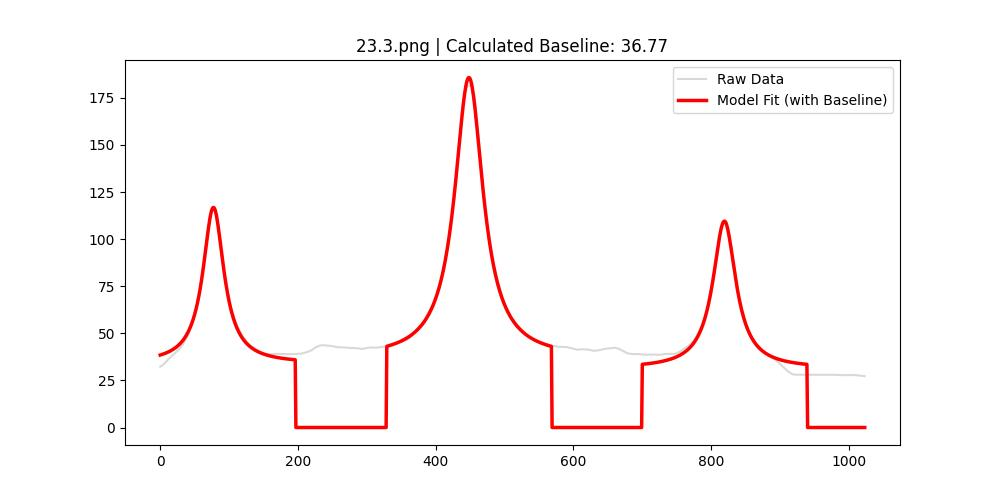
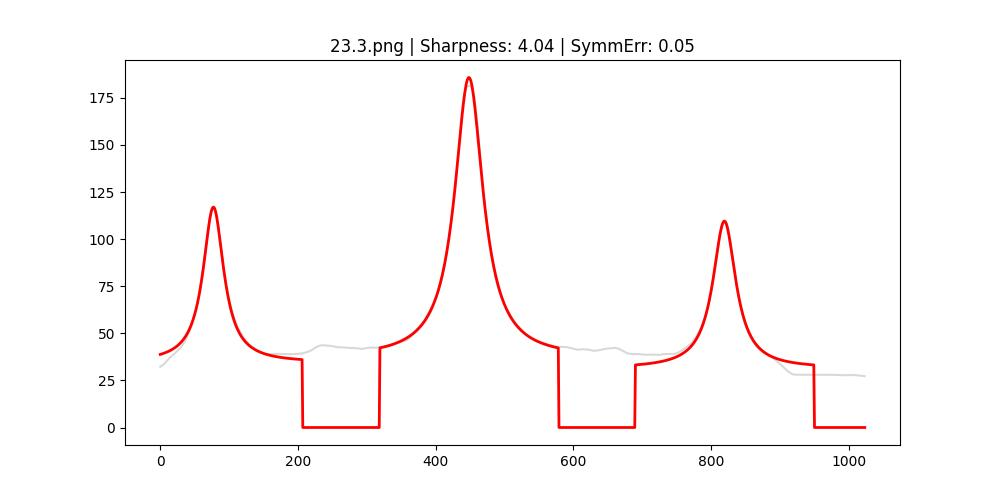
monday night 1

diff --git a/src/analysis/substrateanalyzer.py b/src/analysis/substrateanalyzer.py
@@ -6,23 +6,19 @@ import matplotlib.pyplot as plt
 from scipy.signal import find_peaks, savgol_filter
 from scipy.optimize import curve_fit
 
-# --- USER CONFIGURATION ---
-# List of image numbers (from XX.3.png) that require the Double-Lorentzian fit
+# --- CONFIGURATION ---
 DOUBLET_FILES = [11, 13, 14, 16, 17, 19, 20, 21, 25, 26, 28, 31]
-
 INPUT_DIR = "data/raw/mbesubstrate"
 OUTPUT_DIR = "data/processed/physics_analysis/substrate"
 DIAG_DIR = os.path.join(OUTPUT_DIR, "diagnostics")
 
 
-# --- MODELS WITH DYNAMIC BASELINE (y0) ---
+# --- MODELS ---
 def lorentzian(x, amp, ctr, hwhm, y0):
-    """Lorentzian that sits on a variable baseline (y0)."""
     return (amp * hwhm**2 / ((x - ctr) ** 2 + hwhm**2)) + y0
 
 
 def double_lorentzian(x, a1, c1, w1, a2, c2, w2, y0):
-    """Double Lorentzian sharing a single background baseline."""
     return lorentzian(x, a1, c1, w1, 0) + lorentzian(x, a2, c2, w2, 0) + y0
 
 
@@ -38,106 +34,86 @@ def process_substrate(path):
     except:
         file_num = -1
 
-    # Profile extraction from center band
     profile = np.mean(img[480:540, :], axis=0)
     smoothed = savgol_filter(profile, 25, 3)
 
-    # Identify the three main streaks
-    peaks, _ = find_peaks(smoothed, prominence=8, distance=150)
+    # Hardened Peak Finding (Low prominence for clipped peaks)
+    peaks, _ = find_peaks(smoothed, prominence=5, distance=120)
     if len(peaks) < 3:
-        peaks = np.argsort(smoothed)[-3:]
+        sorted_indices = np.argsort(smoothed)[::-1]
+        fallback = []
+        for idx in sorted_indices:
+            if all(abs(idx - p) > 100 for p in fallback):
+                fallback.append(idx)
+            if len(fallback) == 3:
+                break
+        peaks = np.array(fallback)
 
     best_peaks = sorted(peaks[np.argsort(smoothed[peaks])[-3:]])
     center_idx = np.argmin(np.abs(np.array(best_peaks) - 512))
+    peak_positions = []
 
     x = np.arange(1024)
     visual_fit = np.zeros(1024)
-    # Added 'baseline' to the results dictionary to track it per image
+
+    # Initialize result container
     res = {
         "filename": filename,
         "fwhm_L": 0.0,
         "fwhm_C": 0.0,
         "fwhm_R": 0.0,
         "baseline": 0.0,
+        "sharpness": 0.0,
+        "symmetry_error": 0.0,
     }
 
     for i, p_loc in enumerate(best_peaks):
-        win = 120
+        win = 130
         idx = np.arange(max(0, p_loc - win), min(1024, p_loc + win))
-        x_loc = x[idx]
-        y_loc = smoothed[idx]
-
-        # Identify the floor guess for this specific image
+        x_loc, y_loc = x[idx], smoothed[idx]
         floor_guess = np.min(y_loc)
 
         try:
             if i == center_idx and file_num in DOUBLET_FILES:
-                # --- OFFSET DOUBLET FIT ---
+                # --- DOUBLET LOGIC ---
                 amp_seed = np.max(y_loc) - floor_guess
                 p0 = [amp_seed, p_loc - 12, 15, amp_seed, p_loc + 12, 15, floor_guess]
-
-                # Bounds allow the baseline to find its true level
-                lower_b = [
-                    amp_seed * 0.5,
-                    p_loc - 40,
-                    5,
-                    amp_seed * 0.5,
-                    p_loc + 2,
-                    5,
-                    0,
-                ]
-                upper_b = [
-                    amp_seed * 3.0,
-                    p_loc - 2,
-                    65,
-                    amp_seed * 2.5,
-                    p_loc + 40,
-                    65,
-                    floor_guess + 50,
-                ]
-
-                popt, _ = curve_fit(
-                    double_lorentzian,
-                    x_loc,
-                    y_loc,
-                    p0=p0,
-                    bounds=(lower_b, upper_b),
-                    maxfev=5000,
-                )
+                popt, _ = curve_fit(double_lorentzian, x_loc, y_loc, p0=p0, maxfev=5000)
                 visual_fit[idx] = double_lorentzian(x_loc, *popt)
                 res["fwhm_C"] = round(
                     abs(popt[1] - popt[4]) + (abs(popt[2]) + abs(popt[5])), 2
                 )
-                res["baseline"] = round(popt[6], 2)  # Capture calculated baseline
+                res["baseline"] = round(popt[6], 2)
+                res["sharpness"] = round(((popt[0] + popt[3]) / 2) / max(popt[6], 1), 2)
+                peak_positions.append((popt[1] + popt[4]) / 2)
             else:
-                # --- OFFSET SINGLET FIT ---
+                # --- SINGLET LOGIC ---
                 amp_seed = np.max(y_loc) - floor_guess
                 p0 = [amp_seed, p_loc, 15, floor_guess]
-                lower_b = [amp_seed * 0.5, p_loc - 35, 5, 0]
-                upper_b = [amp_seed * 2.5, p_loc + 35, 65, floor_guess + 50]
-
-                popt, _ = curve_fit(
-                    lorentzian,
-                    x_loc,
-                    y_loc,
-                    p0=p0,
-                    bounds=(lower_b, upper_b),
-                    maxfev=3000,
-                )
+                popt, _ = curve_fit(lorentzian, x_loc, y_loc, p0=p0, maxfev=3000)
                 visual_fit[idx] = lorentzian(x_loc, *popt)
                 key = ["fwhm_L", "fwhm_C", "fwhm_R"][i]
                 res[key] = round(abs(popt[2] * 2), 2)
+                peak_positions.append(popt[1])
                 if i == center_idx:
                     res["baseline"] = round(popt[3], 2)
+                    res["sharpness"] = round(popt[0] / max(popt[3], 1), 2)
         except:
             continue
 
-    # Diagnostic plot showing the true baseline
+    # Calculate Symmetry Error: |(Center-Left) - (Right-Center)|
+    if len(peak_positions) == 3:
+        dist_l = abs(peak_positions[1] - peak_positions[0])
+        dist_r = abs(peak_positions[2] - peak_positions[1])
+        res["symmetry_error"] = round(abs(dist_l - dist_r), 2)
+
+    # Diagnostic Export
     plt.figure(figsize=(10, 5))
-    plt.plot(x, smoothed, color="gray", alpha=0.3, label="Raw Data")
-    plt.plot(x, visual_fit, color="red", lw=2.5, label="Model Fit (with Baseline)")
-    plt.title(f"{filename} | Calculated Baseline: {res['baseline']}")
-    plt.legend()
+    plt.plot(x, smoothed, color="gray", alpha=0.3, label="Data")
+    plt.plot(x, visual_fit, color="red", lw=2, label="Fit")
+    plt.title(
+        f"{filename} | Sharpness: {res['sharpness']} | SymmErr: {res['symmetry_error']}"
+    )
     plt.savefig(os.path.join(DIAG_DIR, f"diag_{filename}.jpg"))
     plt.close()
 
@@ -147,8 +123,17 @@ def process_substrate(path):
 if __name__ == "__main__":
     os.makedirs(DIAG_DIR, exist_ok=True)
     all_files = sorted([f for f in os.listdir(INPUT_DIR) if f.lower().endswith(".png")])
-    results = [process_substrate(os.path.join(INPUT_DIR, f)) for f in all_files]
-    pd.DataFrame([r for r in results if r]).to_csv(
-        os.path.join(OUTPUT_DIR, "final_substrate_results.csv"), index=False
-    )
-    print("Done. Check the CSV for the 'baseline' column to see the calculated values.")
+
+    # Process and build list of dictionaries
+    results_list = []
+    for f in all_files:
+        data = process_substrate(os.path.join(INPUT_DIR, f))
+        if data:
+            results_list.append(data)
+
+    # Create the final CSV report
+    final_df = pd.DataFrame(results_list)
+    report_path = os.path.join(OUTPUT_DIR, "substrate_physics_report.csv")
+    final_df.to_csv(report_path, index=False)
+
+    print(f"Success! Final report generated at: {report_path}")

diff --git a/src/analysis/mbeanalyzer.py b/src/analysis/mbeanalyzer.py
@@ -1,0 +1,137 @@
+import os
+import cv2
+import numpy as np
+import pandas as pd
+import matplotlib.pyplot as plt
+from scipy.signal import find_peaks, savgol_filter
+from scipy.optimize import curve_fit
+
+# --- CONFIGURATION ---
+INPUT_DIR = "data/raw/mbe"
+OUTPUT_DIR = "data/processed/physics_analysis/growth"
+DIAG_DIR = os.path.join(OUTPUT_DIR, "diagnostics")
+
+
+def quadratic_bg(x, a, b, c):
+    """Global background model for the entire RHEED profile."""
+    return a * x**2 + b * x + c
+
+
+def lorentzian(x, amp, ctr, hwhm):
+    """Pure Lorentzian model (no baseline needed after subtraction)."""
+    return amp * hwhm**2 / ((x - ctr) ** 2 + hwhm**2)
+
+
+def process_growth_global_sub(path):
+    img_raw = cv2.imread(path, 0)
+    if img_raw is None:
+        return None
+    img = cv2.resize(img_raw, (1024, 1024))
+    filename = os.path.basename(path)
+
+    # Profile extraction: focus on the growth streak region
+    profile = np.mean(img[500:520, :], axis=0)
+    smoothed = savgol_filter(profile, 15, 3)
+    x = np.arange(1024)
+
+    # --- STEP 1: GLOBAL BACKGROUND ESTIMATION ---
+    # Sampling the "valleys" (non-peak areas) to estimate diffuse scattering
+    bg_indices = np.arange(0, 1024, 40)
+    # Using a 10th percentile filter to find the noise floor effectively
+    bg_points = [
+        np.percentile(smoothed[max(0, i - 25) : min(1024, i + 25)], 10)
+        for i in bg_indices
+    ]
+
+    try:
+        popt_bg, _ = curve_fit(quadratic_bg, bg_indices, bg_points)
+        full_bg = quadratic_bg(x, *popt_bg)
+    except:
+        # Fallback to a simple constant baseline if quadratic fails
+        full_bg = np.full_like(x, np.percentile(smoothed, 10))
+
+    # SUBTRACTION: This creates a 'flat' dataset for peak analysis
+    flat_data = smoothed - full_bg
+    flat_data[flat_data < 0] = 0  # No negative intensity allowed
+
+    # --- STEP 2: ZONAL PEAK SEARCH ---
+    # Define zones to ensure we get exactly -1, 0, and +1 orders
+    zones = [(180, 420), (420, 600), (600, 820)]
+    best_peaks = []
+    for z_start, z_end in zones:
+        zone_slice = flat_data[z_start:z_end]
+        p, _ = find_peaks(zone_slice, prominence=2)
+        if len(p) > 0:
+            best_peaks.append(p[np.argmax(zone_slice[p])] + z_start)
+        else:
+            best_peaks.append(np.argmax(zone_slice) + z_start)
+
+    # --- STEP 3: CLEAN LORENTZIAN FITTING ---
+    visual_fit = np.zeros(1024)
+    res = {
+        "filename": filename,
+        "fwhm_L": 0.0,
+        "fwhm_C": 0.0,
+        "fwhm_R": 0.0,
+        "bg_curvature": 0.0,
+    }
+
+    for i, p_loc in enumerate(best_peaks):
+        win = 85
+        idx = np.arange(max(0, p_loc - win), min(1024, p_loc + win))
+        x_loc, y_loc = x[idx], flat_data[idx]
+
+        try:
+            # Seed: [Amplitude, Center, HWHM]
+            p0 = [np.max(y_loc), p_loc, 12]
+            popt, _ = curve_fit(lorentzian, x_loc, y_loc, p0=p0)
+
+            visual_fit[idx] = lorentzian(x_loc, *popt)
+            key = ["fwhm_L", "fwhm_C", "fwhm_R"][i]
+            res[key] = round(abs(popt[2] * 2), 2)
+        except:
+            continue
+
+    # Store background curvature (a-parameter) for error checking
+    res["bg_curvature"] = round(popt_bg[0], 6) if "popt_bg" in locals() else 0.0
+
+    # --- STEP 4: TWO-STAGE DIAGNOSTIC PLOT ---
+    fig, (ax1, ax2) = plt.subplots(2, 1, figsize=(10, 8))
+
+    # Top Panel: Show original data and the background fit
+    ax1.plot(x, smoothed, color="gray", alpha=0.5, label="Raw Intensity")
+    ax1.plot(x, full_bg, color="red", ls="--", lw=2, label="Global Quadratic BG")
+    ax1.set_title(f"BG Estimation: {filename}")
+    ax1.legend()
+
+    # Bottom Panel: Show 'Flat' data and Lorentzian fits
+    ax2.plot(x, flat_data, color="black", alpha=0.3, label="BG-Subtracted Data")
+    ax2.plot(x, visual_fit, color="lime", lw=2.5, label="Triple Lorentzian Fit")
+    ax2.set_title(f"Clean Peak Fit (FWHM_C: {res['fwhm_C']})")
+    ax2.set_ylim(0, np.max(flat_data) * 1.2)
+    ax2.legend()
+
+    plt.tight_layout()
+    plt.savefig(os.path.join(DIAG_DIR, f"global_sub_{filename}.jpg"))
+    plt.close()
+
+    return res
+
+
+if __name__ == "__main__":
+    os.makedirs(DIAG_DIR, exist_ok=True)
+    all_files = sorted(
+        [
+            f
+            for f in os.listdir(INPUT_DIR)
+            if f.lower().endswith(".png") and not f.endswith(".3.png")
+        ]
+    )
+
+    results = [process_growth_global_sub(os.path.join(INPUT_DIR, f)) for f in all_files]
+    pd.DataFrame([r for r in results if r]).to_csv(
+        os.path.join(OUTPUT_DIR, "mbe_global_sub_report.csv"), index=False
+    )
+    print(
+        f"Analysis complete. Check {DIAG_DIR} for the new two-stage diagnostic images."
+    )
